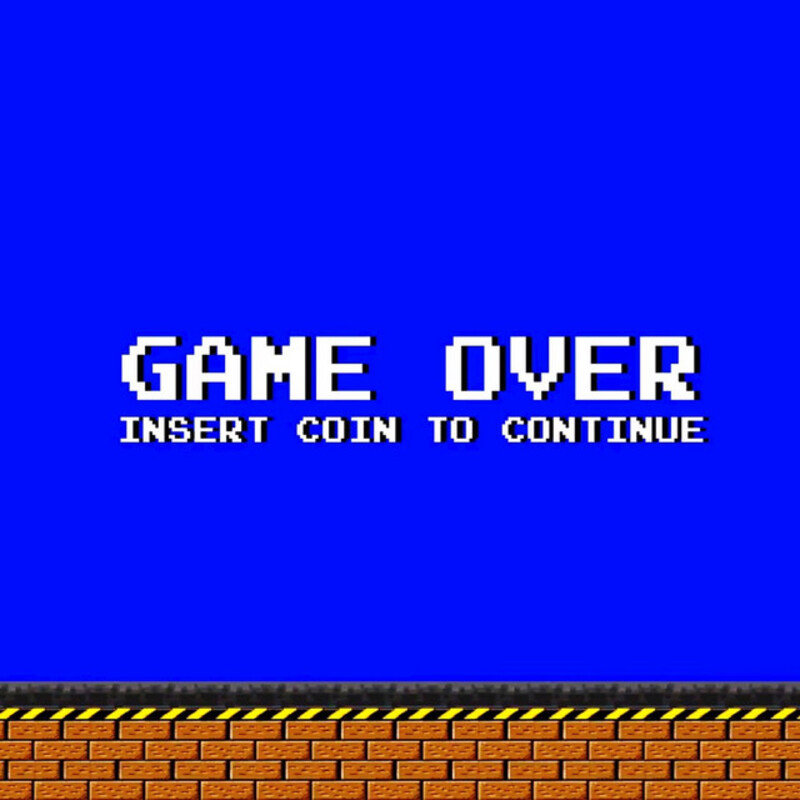
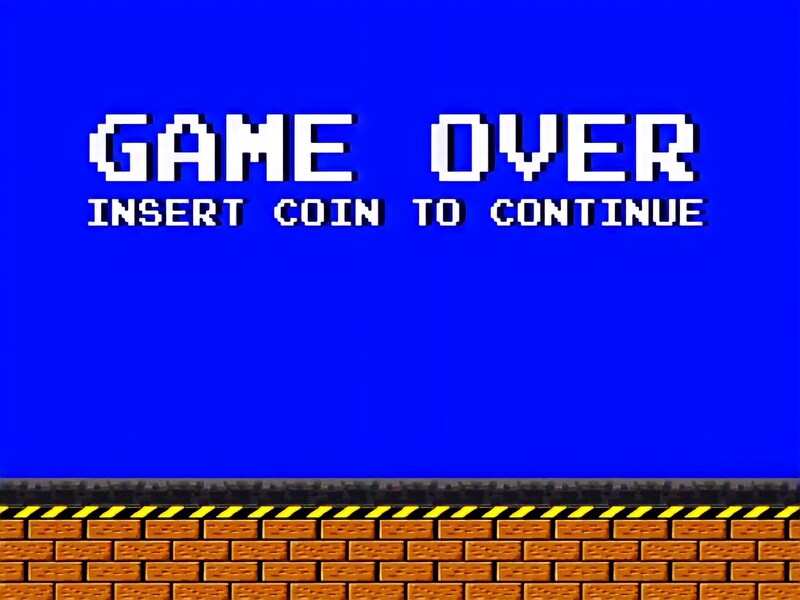
primer boceto del juego 100% terminado

diff --git a/main.py b/main.py
@@ -10,6 +10,9 @@ SCREEN = pygame.display.set_mode((900, 700))
 pygame.display.set_caption("Menu")
 
 BG = pygame.image.load("assets/fondo.jpg")
+FG = pygame.image.load("assets/fondo_ganador.jpg")
+FP = pygame.image.load("assets/fondo_perdedor.jpg")
+
 
 def get_font(size): 
     return pygame.font.Font("assets/font.ttf", size)
@@ -345,16 +348,16 @@ def options():
 
 def menu_final():
     while True:
-        SCREEN.blit(BG, (0, 0))
+        SCREEN.blit(FP, (0, 0))
 
         MENU_MOUSE_POS = pygame.mouse.get_pos()
 
-        MENU_TEXT = get_font(35).render("HAS PERDIDO:( TUS PUNTOS NO DAN", True, "black")
+        MENU_TEXT = get_font(35).render("HAS PERDIDO:( TUS PUNTOS NO DAN", True, "white")
         MENU_RECT = MENU_TEXT.get_rect(center=(400, 30))
 
-        PLAY_BUTTON = Button(image=pygame.image.load("assets/Play Rect.png"), pos=(400, 250), 
+        PLAY_BUTTON = Button(image=pygame.image.load("assets/Play Rect.png"), pos=(400, 300), 
                             text_input="JUGAR DE NUEVO", font=get_font(35), base_color="black", hovering_color="green")
-        QUIT_BUTTON = Button(image=pygame.image.load("assets/Quit Rect.png"), pos=(400, 350), 
+        QUIT_BUTTON = Button(image=pygame.image.load("assets/Quit Rect.png"), pos=(400, 420), 
                             text_input="SALIR", font=get_font(35), base_color="black", hovering_color="red")
 
         CREDITOS = Button(image=None, pos=(400, 650),text_input="Gloria Gama, Jeyson Olivare, Julian", font=get_font(20), base_color="white", hovering_color="Green")
@@ -381,7 +384,7 @@ def menu_final():
         
 def menu_final_ganador():
     while True:
-        SCREEN.blit(BG, (0, 0))
+        SCREEN.blit(FG, (0, 0))
 
         MENU_MOUSE_POS = pygame.mouse.get_pos()
 
